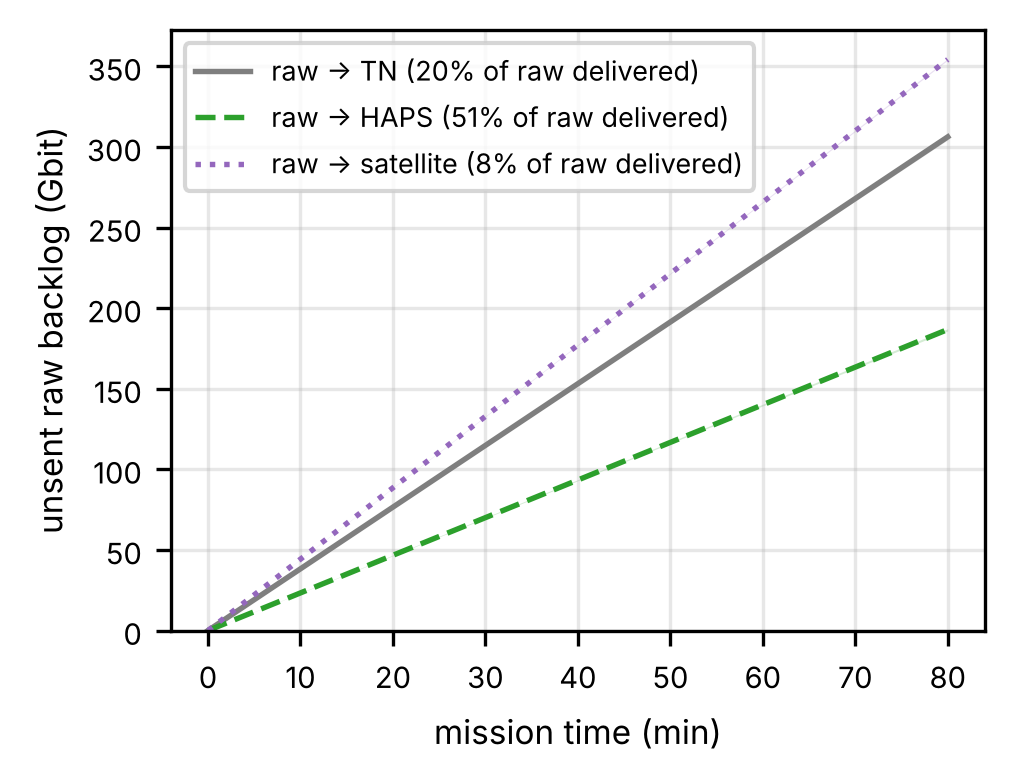
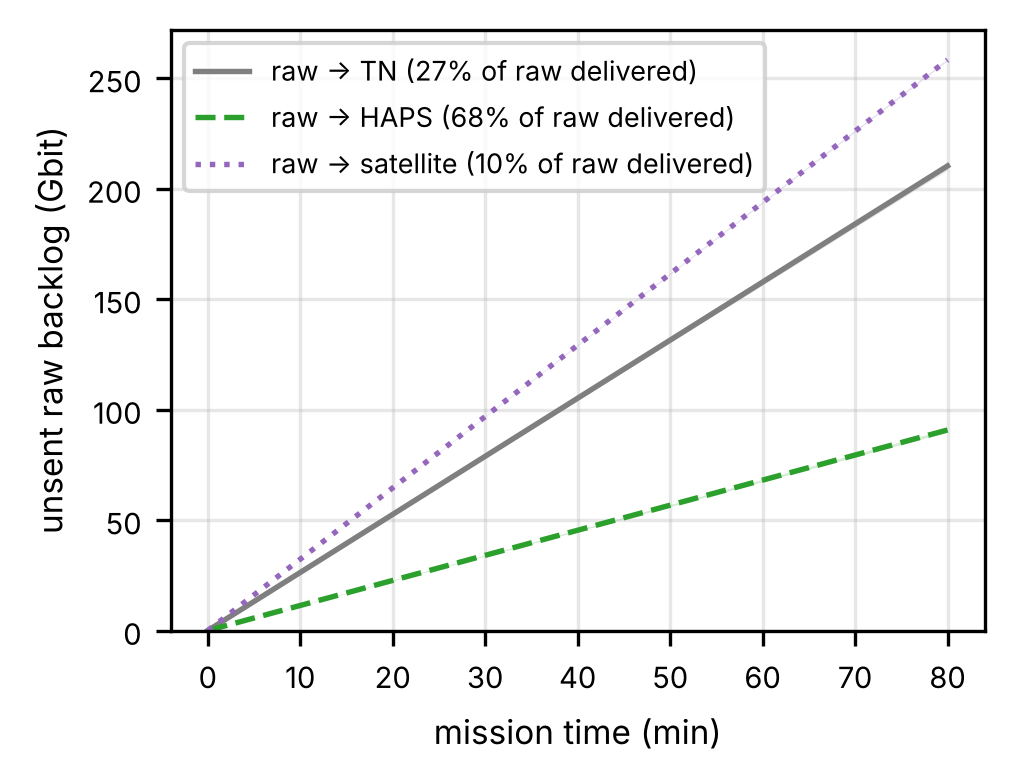
Exp 5 v1.3 results: 4K 60 Mbit/s raw stream, raw-bitrate sweep, Fig. 5e
- Full re-run with the same seeds: everything except Exp 5 bit-identical
- Fig. 5e: processed captures per kJ vs raw bitrate (legend below the axes)

Claude-Session: https://claude.ai/code/session_011GKG2F8EsWv8fcApVH1dp8

diff --git a/experiments/exp5b_energy.py b/experiments/exp5b_energy.py
@@ -158,7 +158,7 @@ def run(world, seeds, outdir, quick=False, log=print):
     ax.set_ylabel("processed captures per kJ")
     ax.set_xticks(RAW_RATES_MBPS)
     ax.set_ylim(bottom=0)
-    ax.legend(loc="upper right", fontsize=6)
+    ax.legend(loc="upper center", bbox_to_anchor=(0.5, -0.2), ncol=2, frameon=False, fontsize=6)
     save(fig, f"{outdir}/fig5e_captures_per_kj_vs_raw_rate.png")
 
     return {
